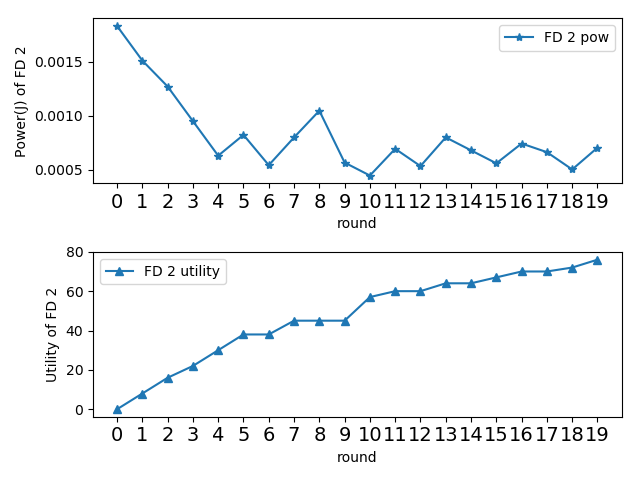
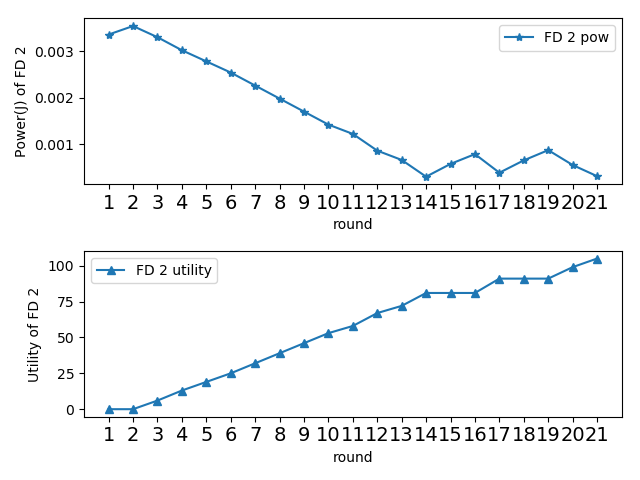
解决了能量和收益不对应的bug

diff --git a/Dynamic Multi Relay/NetworkController.py b/Dynamic Multi Relay/NetworkController.py
@@ -5,16 +5,14 @@ from RegisterUser import RU
 from FogDevice import FD
 from Coalition import Coalition
 import matplotlib.pyplot as plt
-import numpy as np
 import datetime
-import os
+
+
 class NetworkController:
-    def __init__(self,positions):
+    def __init__(self, positions):
         self.bs, self.coalitions, self.fds = self.create_net(positions)
 
-
     def create_net(self, positions):
-
         bs = BS(positions["BS"])
         coalitions = self.set_coalitions(positions["RUs"], bs)
         fds = self.set_fds(positions["FDs"])
@@ -37,20 +35,46 @@ class NetworkController:
             fds.append(fd)
         return fds
 
-    def show_coalitions(self):
+    def show_coalitions(self, round):
+        # 输出打印coalition
+        # for i in self.coalitions:
+        #     print i.ru.ruId #,"need power:",(i.ru.N * LossRate_BS(i.bs, i.ru) * i.ru.L / 100) * 0.004
+        #     print "   RelaySet:",
+        #     for j in i.RelaySet:
+        #         print j.fdId,
+        #     print
+        #     print "   EHSet:",
+        #     for j in i.EHSet:
+        #         print j.fdId,
+        #     print
+        #     for j in i.fds:
+        #         print "  ",j.fdId,"expect:",j.expect,"round:",j.round,"total:",j.total,"power:",j.power
+        #    #print ""
+
+        # 绘制图像保存
+        path = '../Pics/DynamicMultiRelay/' + str(datetime.date.today())  # 在net.py中调用是相对于net.py的目录
+
+        plt.figure()
+        colors = [ 'g', 'r', 'orange', 'blue', 'brown', 'teal'] #这里最多四种颜色
+        cindex = 0
+        # 按照联盟来打点的颜色
         for i in self.coalitions:
-            print i.ru.ruId #,"need power:",(i.ru.N * LossRate_BS(i.bs, i.ru) * i.ru.L / 100) * 0.004
-            print "   RelaySet:",
+            plt.scatter(i.bs.position[0], i.bs.position[1], c='b')
+            plt.annotate("BS", (i.bs.position[0], i.bs.position[1]))
+            plt.scatter(i.ru.position[0], i.ru.position[1], c=colors[cindex])
+            plt.annotate(i.ru.ruId, (i.ru.position[0], i.ru.position[1]))
+
             for j in i.RelaySet:
-                print j.fdId,
-            print
-            print "   EHSet:",
+                plt.scatter(j.position[0], j.position[1], c=colors[cindex], marker='*')
+                plt.annotate(j.fdId, (j.position[0], j.position[1]))
+
             for j in i.EHSet:
-                print j.fdId,
-            print
-            for j in i.fds:
-                print "  ",j.fdId,"expect:",j.expect,"round:",j.round,"total:",j.total,"power:",j.power
-            #print ""
+                plt.scatter(j.position[0], j.position[1], c=colors[cindex], marker='x')
+                plt.annotate(j.fdId, (j.position[0], j.position[1]))
+
+            cindex += 1
+        plt.savefig("%s/round%s.png" % (path, round))  # 保存图片
+        plt.close()
 
     def save_result(self,round):
         path = '../Pics/DynamicMultiRelay/' + str(datetime.date.today())  # 在net.py中调用是相对于net.py的目录
@@ -61,9 +85,9 @@ class NetworkController:
             plt.subplot(211)
             plt.xlabel('round')
             plt.ylabel('Power(J) of %s' % i.fdId)
-            data_x = [j for j in range(0, round)]
+            data_x = [j for j in range(0, round+1)]
             data_pow = i.power_his
-            labelx = range(0, round + 1)
+            labelx = range(1, round+2)
             plt.xticks(data_x, labelx, fontsize=14)
             plt.plot(data_x, data_pow, marker='*', label='%s pow' % i.fdId)
             plt.legend()  # 给图像加上图例
@@ -71,9 +95,9 @@ class NetworkController:
             plt.subplot(212)
             plt.xlabel('round')
             plt.ylabel('Utility of %s' % i.fdId)
-            data_x = [j for j in range(0, round)]
+            data_x = [j for j in range(0, round+1)]
             data_utility = i.utility_his
-            labelx = range(0, round + 1)
+            labelx = range(1, round+2)
             plt.xticks(data_x, labelx, fontsize=14)
             plt.plot(data_x, data_utility, marker='^', label='%s utility' % i.fdId)
 

diff --git a/Dynamic Multi Relay/Simulator.py b/Dynamic Multi Relay/Simulator.py
@@ -4,6 +4,7 @@ from NetworkController import NetworkController
 
 from Init_devide import  *
 from CRG import *
+
 class Simulator:
     def __init__(self,positions):
         self.positions = positions
@@ -27,11 +28,13 @@ class Simulator:
         #初始划分完成，开始进行传输
         max_round = 20
         change_round = 10
-        round = 0
+        round = 1
 
-        while round < max_round:
+        while round <= max_round:
             #每一轮中每个设备按照自己的实际效用来增加效用
             print '\n\n*** round %d' % round
+            #保存的是每一个round开始的时候的联盟划分
+            network.show_coalitions(round)
             # 1.基站广播每轮中给每个RU传输的数据包数目
             for i in network.coalitions:
                 i.ru.N = randint(20, 30)
@@ -79,7 +82,7 @@ class Simulator:
             for i in network.coalitions:
                 i.alter_coalition()
 
-            network.show_coalitions()
+
             round += 1
 
         print "Finish all round"
@@ -92,11 +95,11 @@ if __name__ == '__main__':
     # positions = {
     #     'RUs': [[14, 86], [22, 21], [81, 79], [75, 17]],
     #     'FDs': [[16, 48], [87, 62], [20, 91], [26, 14], [24, 63],
-    #             [18, 22], [41, 40], [75, 90], [8, 99], [68, 50],
-    #             [59, 60], [40, 76], [60, 43], [78, 37], [27, 38],
-    #             [63, 14], [63, 81], [75, 75], [55, 31], [61, 90],
-    #             [54, 75], [50, 1], [7, 73], [10, 2], [24, 80],
-    #             [34, 27], [3, 28], [34, 95], [90, 24], [32, 69]
+    #             [18, 22], [41, 40], [75, 90], [8, 99], [68, 50] #,
+    #             # [59, 60], [40, 76], [60, 43], [78, 37], [27, 38],
+    #             # [63, 14], [63, 81], [75, 75], [55, 31], [61, 90],
+    #             # [54, 75], [50, 1], [7, 73], [10, 2], [24, 80],
+    #             # [34, 27], [3, 28], [34, 95], [90, 24], [32, 69]
     #             ],
     #     'BS': [50, 50]}
 

diff --git a/Dynamic Multi Relay/Coalition.py b/Dynamic Multi Relay/Coalition.py
@@ -5,10 +5,13 @@ from Energy import energy
 from copy import deepcopy
 
 
+
+
 class Coalition:
     def __init__(self,bs,ru,coaId):
         self.bs, self.ru, self.coaId = bs, ru, coaId
         self.fds, self.RelaySet, self.EHSet = [], [], []
+
 
     def getset(self, num):
         if num == 0:
@@ -23,7 +26,7 @@ class Coalition:
         fd.setchoice = setnum
         fd.resetU()
         #加入时考虑的应该是期望效用,乘以系数的话，系数该如何确定呢
-        fd.expect = self.join_utility(fd, setnum) * 0.8
+        fd.expect = self.join_utility(fd, setnum) * 0.6
         # print fd.fdId, "join", self.ru.ruId, "set:", setnum, "join utility:", self.join_utility(fd,setnum)
 
 
@@ -129,6 +132,7 @@ class Coalition:
         fd.round += 1
         print fd.fdId, "in time", time, "harvest energy:", power_harvest
 
+
     def relayMsg(self,fd):
         # print fd.fdId,"choose", fd.coalition.ru.ruId,"set:",fd.setchoice
         # for i in fd.coalition.getset(fd.setchoice):
@@ -138,9 +142,10 @@ class Coalition:
         fd.utility = self.utility(fd)
         fd.total += fd.utility
 
+        fd.cumulative_utility += fd.utility
         fd.utility_his.append(fd.cumulative_utility)
 
-        fd.cumulative_utility += fd.utility
+
 
         power_cost = (fd.utility * self.ru.L / fd.rate) * 0.004
         fd.power -= power_cost
@@ -148,7 +153,9 @@ class Coalition:
         #这里计算实际效用的时候
         fd.round += 1
 
-        print fd.fdId, "in", fd.coalition.ru.ruId, "set:", fd.setchoice, "relayMsg num",fd.utility,"cost power:",power_cost
+        print fd.fdId, "in", fd.coalition.ru.ruId, "set:", fd.setchoice, "relayMsg num", fd.utility, "cost power:", power_cost
+
+
 
     def alter_coalition(self):
         t_RelaySet = deepcopy(self.RelaySet)
@@ -184,4 +191,5 @@ class Coalition:
 
 # 单元测试各个函数是否能够满足
 if __name__ == 'main':
+
     pass

diff --git a/Colication game/Simulator.py b/Colication game/Simulator.py
@@ -34,7 +34,7 @@ class Simulator:
 
         print '*** start game\n'
         print '\n\ninitial info:'
-        network.show_coalitions()
+        network.show_coalitions(0)
         # network.show_fds()
 
         max_round = 30
@@ -47,7 +47,7 @@ class Simulator:
             network.start_game(stackelberg_game, round, max_round)
             
             round += 1
-            network.show_coalitions()
+            network.show_coalitions(round)
             # network.show_fds()
             self.save_coalition(network)
 
@@ -68,6 +68,7 @@ class Simulator:
                 else:
                     # 如果所有中继设备能量都不够，则基站自己传输
                     print 'None is selected in coalition %d' % coalition.num
+
             self.save_select(network)
 
         print '*** end simulate\n'
@@ -211,7 +212,11 @@ if __name__ == '__main__':
         'fds': [[25, 53, 0], [30, 42, 0], [35, 35, 0], [20, 25, 0], [15,10, 0]],
         'BS': [5, 45, 0]
     }
-
+    # positions = {
+    #     'RUs': [[50, 50], [50, 10]],
+    #     'FDs': [[25, 53], [30, 42], [35, 35], [20, 25], [15,10]],
+    #     'BS': [5, 45]
+    # }
     #setLogLevel('info')
     s = Simulator(positions)
     # s.show_topology()

diff --git a/Dynamic Multi Relay/FogDevice.py b/Dynamic Multi Relay/FogDevice.py
@@ -34,9 +34,12 @@ class FD:
     self.expect = 0 # expect是指每个FD在加入联盟时的期望效用 表示的是期望的
 
     self.cumulative_utility = 0
+
     self.utility_his = [] # 保存自己的效用变化历史
     self.power_his = [] # 保存自己的能量变化历史
-
+    #第0轮也就是一开始的数据
+    self.utility_his.append(self.cumulative_utility)
+    self.power_his.append(self.power)
     self.actionset = []
 
   #加入集合，重置效用

diff --git a/Colication game/NetworkController.py b/Colication game/NetworkController.py
@@ -81,7 +81,8 @@ class NetworkController:
                 print '    gains, power: %f, %f' % (fd.gains, fd.power)
                 print '    f_bs, f_fd: %f, %f' % (fd.f_bs, fd.f_fd)
 
-    def show_coalitions(self):
+    #TODO:采用拓扑图来显示
+    def show_coalitions(self, round):
         for coalition in self.coalitions:
             print 'coalitoin %d: ' % coalition.num
             print '    paired fds: ', [fd.num for fd in coalition.paired_fds]
